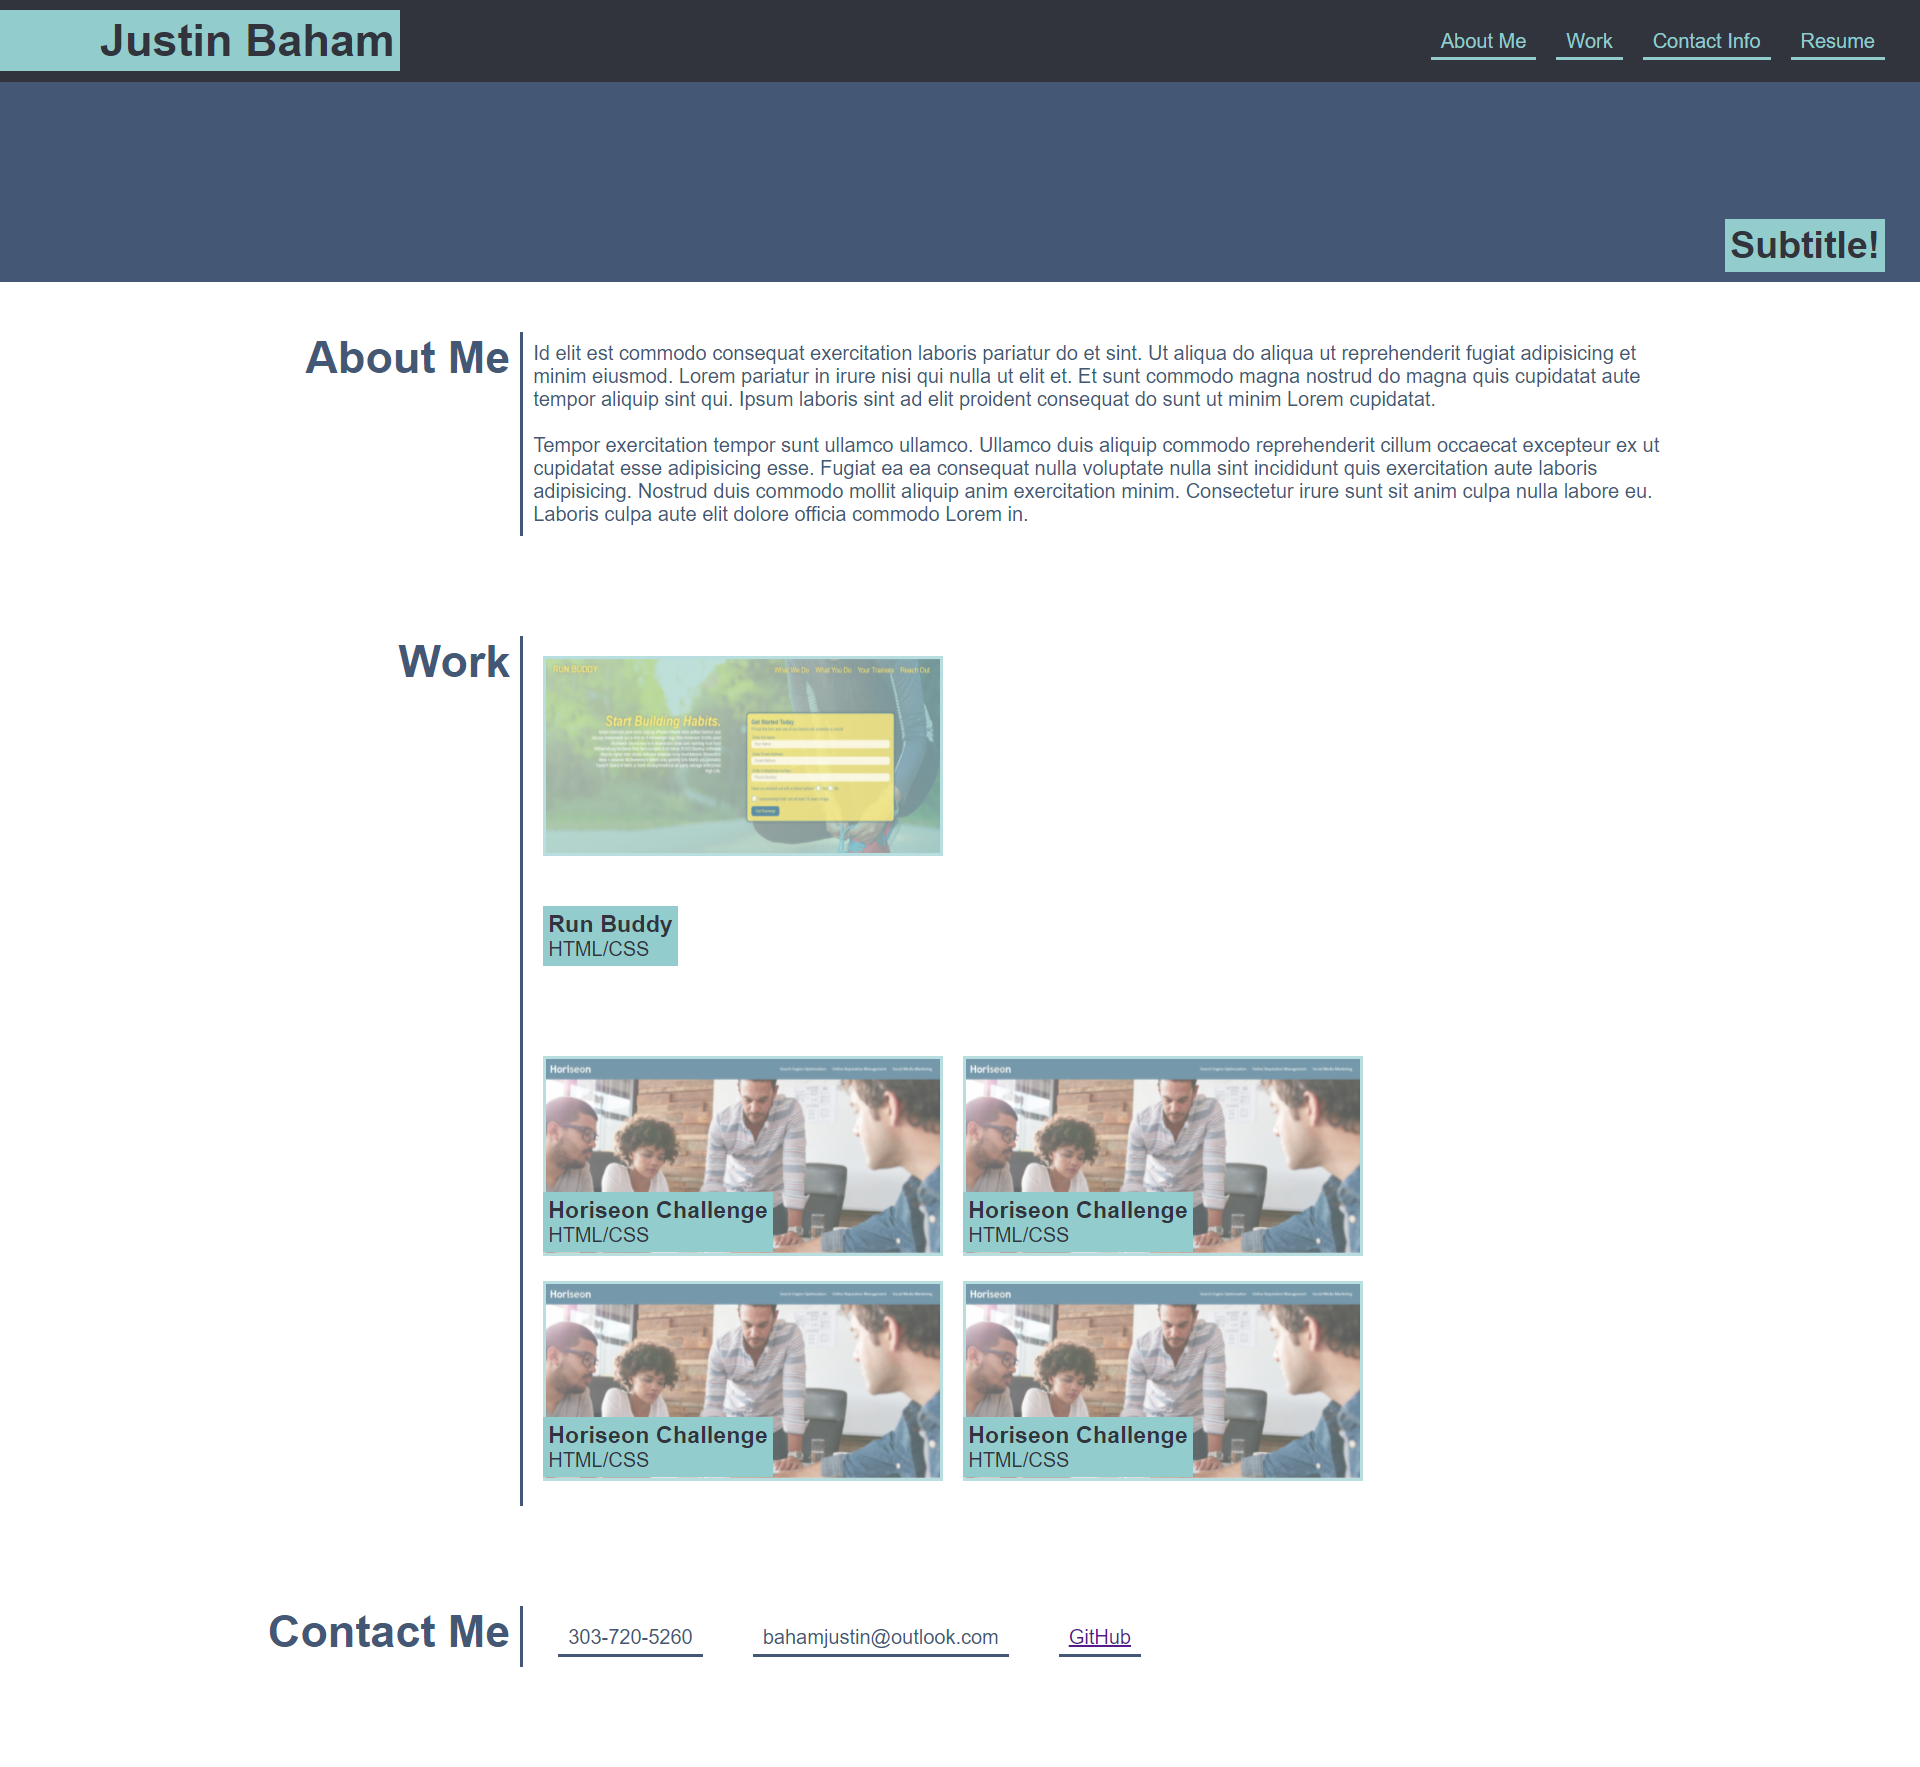
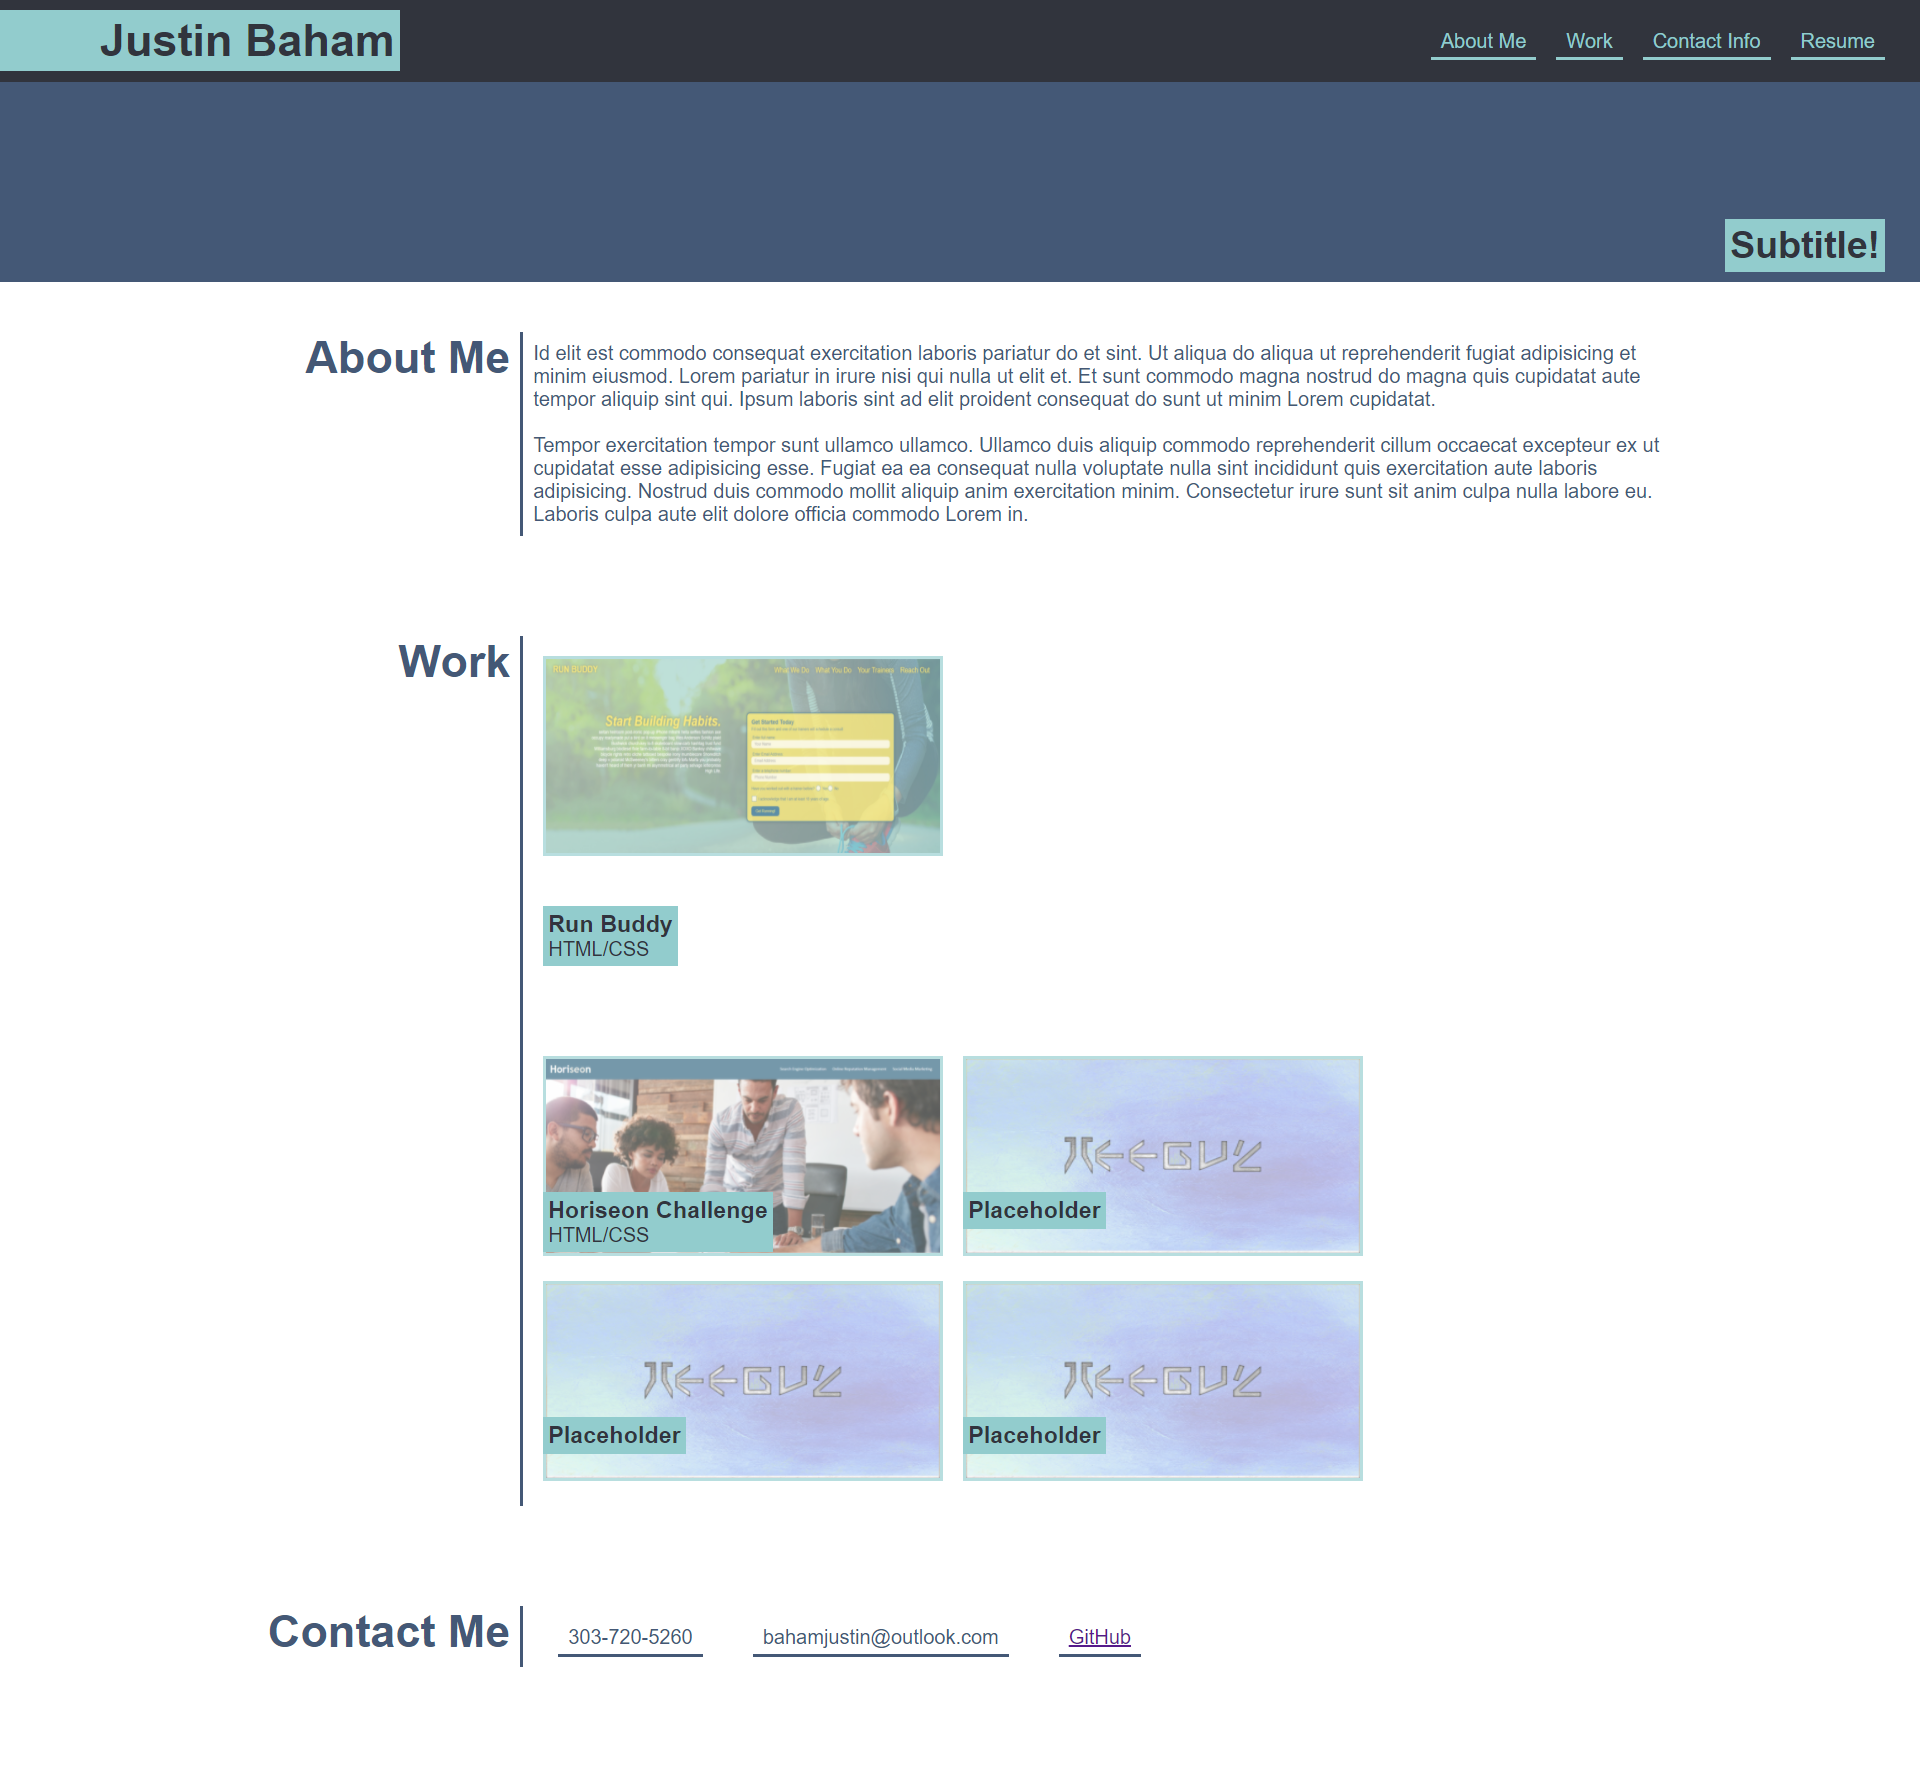
First Submit

Changed region(s): [[0.2812, 0.5914, 0.7188, 0.8404]]

diff --git a/index.html b/index.html
@@ -84,34 +84,25 @@
               <p>HTML/CSS</p>
             </div>
           </a>
-          <a
-            href="https://bahamjustin.github.io/Horiseon-Challenge/"
-            target="_blank"
-          >
-            <img src="assets\images\horiseonimg.PNG" alt="Horiseon Web page" />
+          <a href="" target="_blank">
+            <img src="assets/images/placeholder.png" alt="placeholder images" />
             <div class="img-text">
-              <h3>Horiseon Challenge</h3>
-              <p>HTML/CSS</p>
+              <h3>Placeholder</h3>
+              <p></p>
             </div>
           </a>
-          <a
-            href="https://bahamjustin.github.io/Horiseon-Challenge/"
-            target="_blank"
-          >
-            <img src="assets\images\horiseonimg.PNG" alt="Horiseon Web page" />
+          <a href="" target="_blank">
+            <img src="assets/images/placeholder.png" alt="placeholder images" />
             <div class="img-text">
-              <h3>Horiseon Challenge</h3>
-              <p>HTML/CSS</p>
+              <h3>Placeholder</h3>
+              <p></p>
             </div>
           </a>
-          <a
-            href="https://bahamjustin.github.io/Horiseon-Challenge/"
-            target="_blank"
-          >
-            <img src="assets\images\horiseonimg.PNG" alt="Horiseon Web page" />
+          <a href="" target="_blank">
+            <img src="assets/images/placeholder.png" alt="placeholder images" />
             <div class="img-text">
-              <h3>Horiseon Challenge</h3>
-              <p>HTML/CSS</p>
+              <h3>Placeholder</h3>
+              <p></p>
             </div>
           </a>
         </article>

diff --git a/README.md b/README.md
@@ -9,4 +9,6 @@
 
 ## Website Link
 
+https://bahamjustin.github.io/Portfolio/
+
 ###
